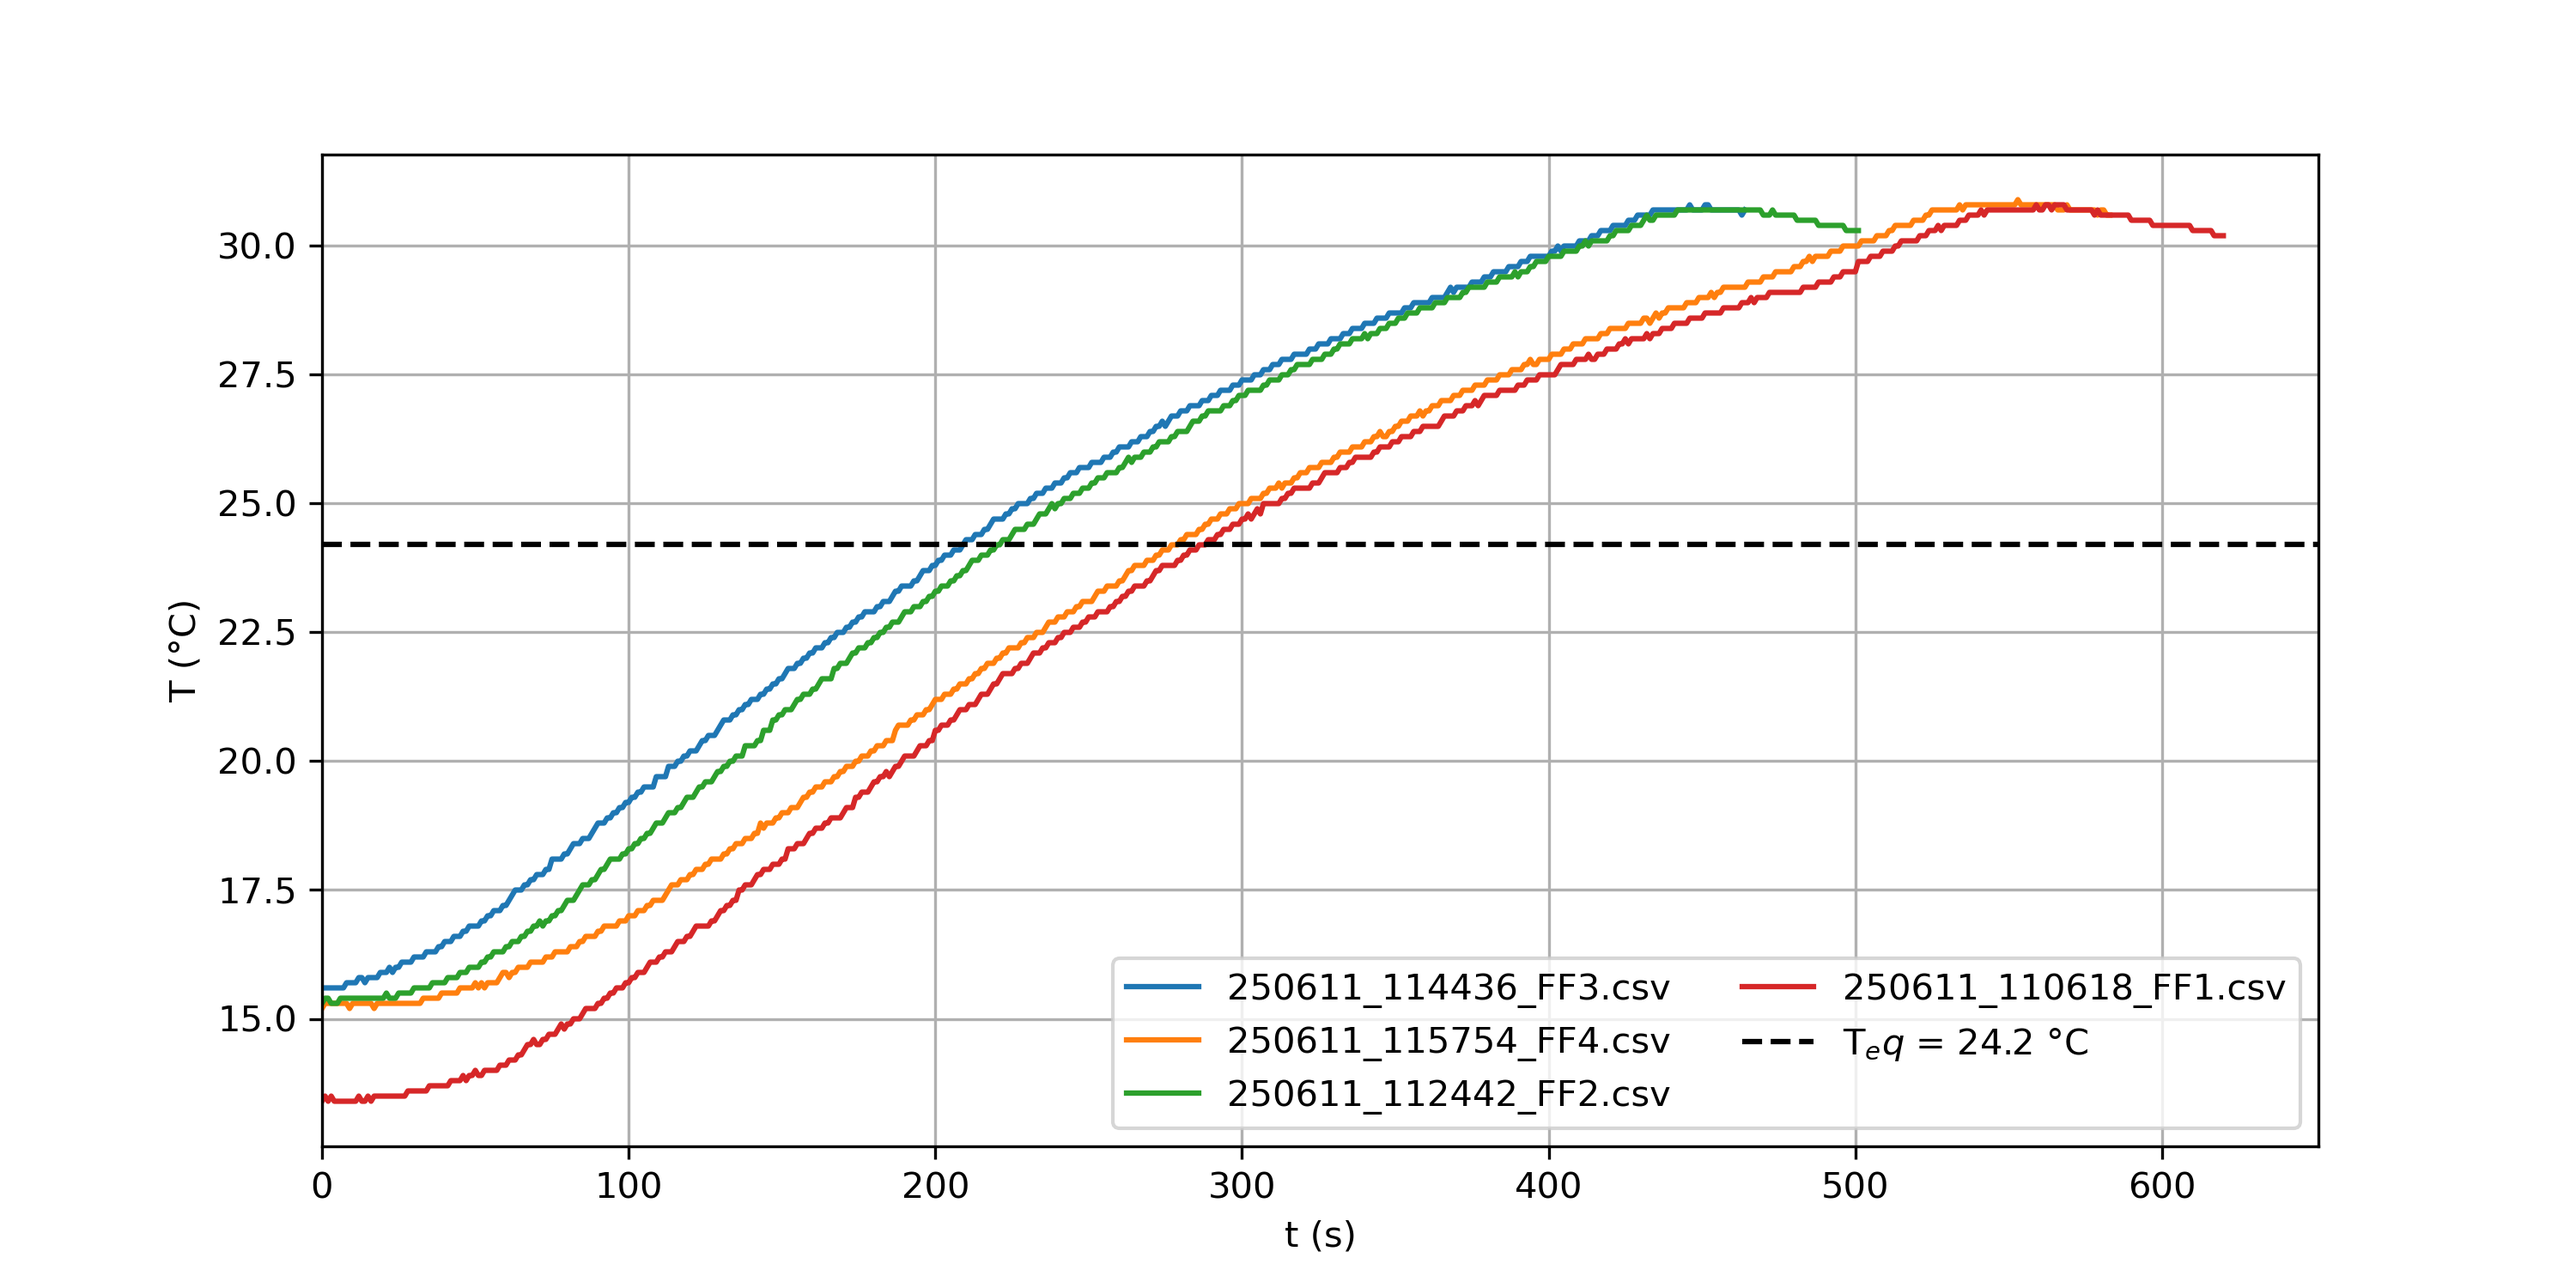
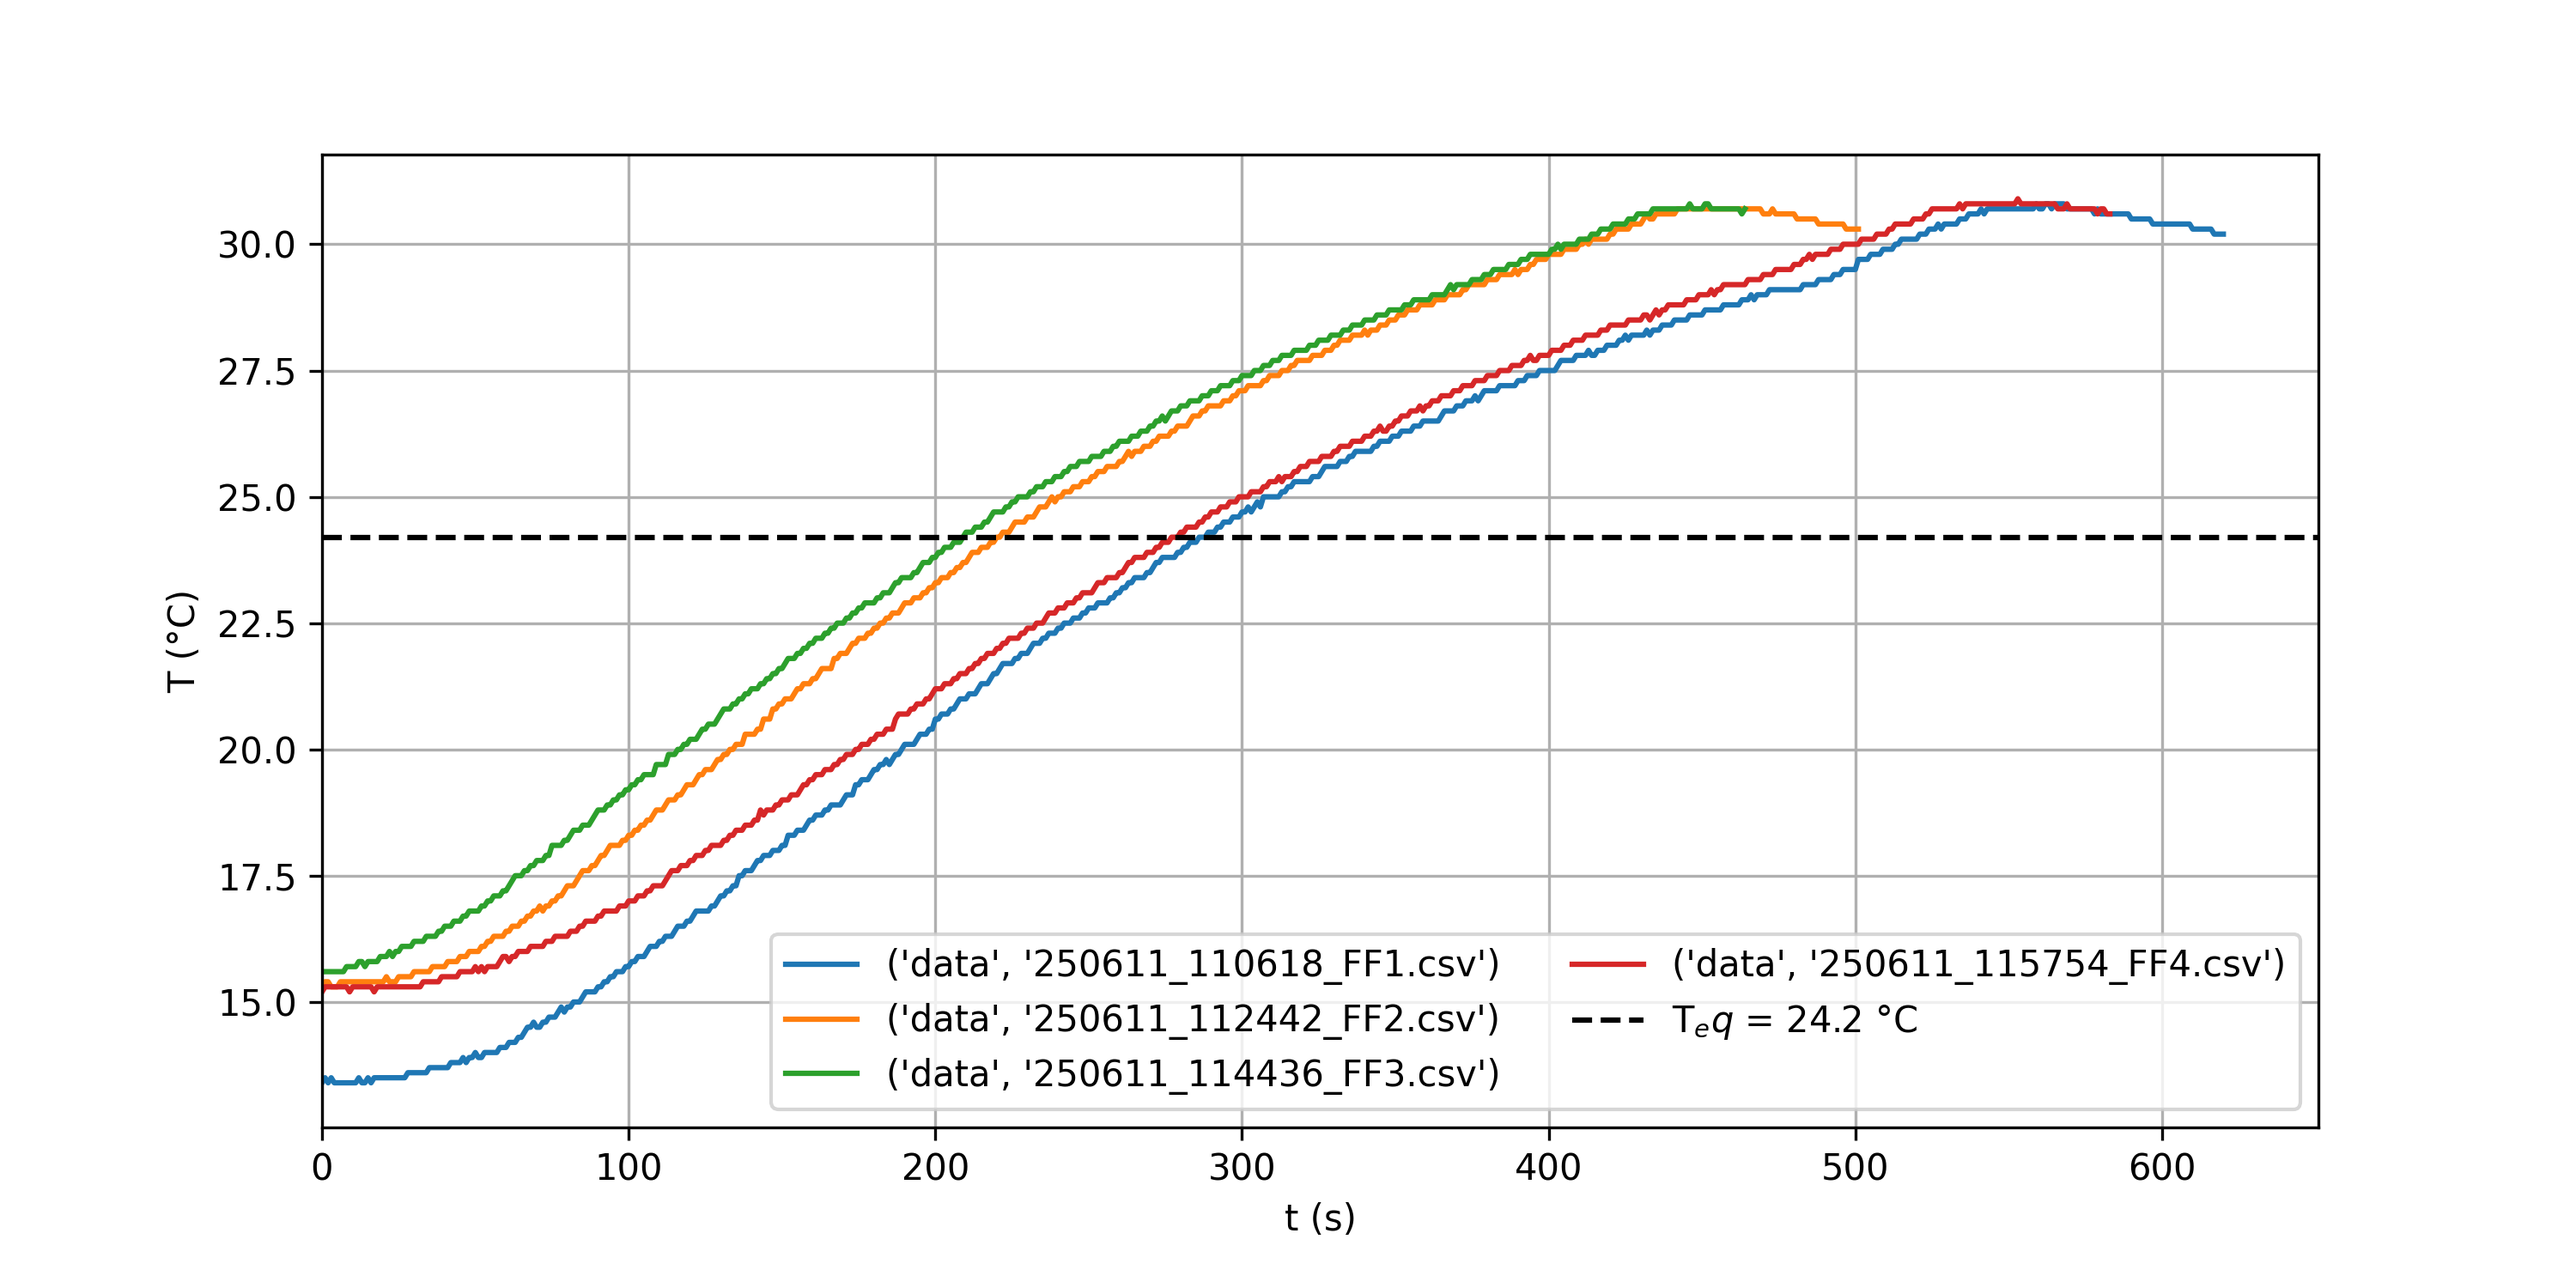
CSAR calculado

Changed region(s): [[0.093, 0.1533, 0.899, 0.9813], [0.062, 0.46, 0.124, 0.5213], [0.093, 0.552, 0.124, 0.6133]]

diff --git a/CSAR_clases.py b/CSAR_clases.py
@@ -5,7 +5,7 @@ from datetime import datetime
 from glob import glob
 from scipy.optimize import curve_fit
 from uncertainties import ufloat, unumpy
-
+import os
 #%%
 class SensorCSV:
     def __init__(self, filepath):
@@ -24,10 +24,11 @@ class SensorCSV:
         return np.array([(t - timestamps[0]).total_seconds() for t in timestamps])
 
 class AnalisisTermico:
-    def __init__(self, path='.', delta_lineal=1.0, delta_exp=3.0, t_eq_min=1000):
+    def __init__(self, path='.', delta_lineal=1.0, delta_exp=3.0, t_eq_min=1000,concentracion=(10.0,0.1)):
         self.delta_lineal = delta_lineal
         self.delta_exp = delta_exp
         self.t_eq_min = t_eq_min
+        self.concentracion=ufloat(concentracion[0],concentracion[1])
         self.files = glob(f'{path}/*.csv')
         self.sensores = [SensorCSV(f) for f in self.files]
         self.T_eq = None
@@ -116,7 +117,7 @@ class AnalisisTermico:
             t_alineado = np.array([(ti - t_base).total_seconds() for ti in muestra.timestamp])
             t_pos, T_pos = t_alineado[t_alineado >= 0], muestra.T_CH1[t_alineado >= 0]
 
-            self.muestras_procesadas.append((muestra.filename, t_pos, T_pos))
+            self.muestras_procesadas.append((os.path.split(muestra.filename), t_pos, T_pos))
 
             res_lin = self.ajuste_lineal(t_pos, T_pos)
             self.resultados_lineales.append(res_lin)
@@ -190,11 +191,19 @@ class AnalisisTermico:
         plt.show()
 
         # Prints finales
-        print(f'\nPromedio dTdt lineal = {prom_lineal:.4f} ºC/s')
-        print(f'Promedio dTdt exponencial = {prom_exponencial:.4f} ºC/s')
+        print('-'*50)
+        print(f'Concentracion {self.concentracion} g/L\nCap. calorifica volumetrica = 4.186 kJ/ºC/L\n')
+        print(f'<dTdt> lineal = {prom_lineal:.4f} ºC/s')
+        CSAR_lineal = prom_lineal*4.186e3/self.concentracion
+        print(f'CSAR = {CSAR_lineal:.0f} W/g (ajuste lineal)')
+
+        print(f'\n<dTdt> exponencial = {prom_exponencial:.4f} ºC/s')
+        CSAR_exp = prom_exponencial*4.186e3/self.concentracion
+        print(f'CSAR = {CSAR_exp:.0f} W/g (ajuste exponencial)')
+        print('-'*50)
 
 if __name__ == '__main__':
-    at = AnalisisTermico(path='data', delta_lineal=1.0, delta_exp=3.0, t_eq_min=1000)
+    at = AnalisisTermico(path='data', delta_lineal=1.0, delta_exp=3.0, t_eq_min=1000,concentracion=(4.5,0.4))
     at.analizar()
 
 # %%
